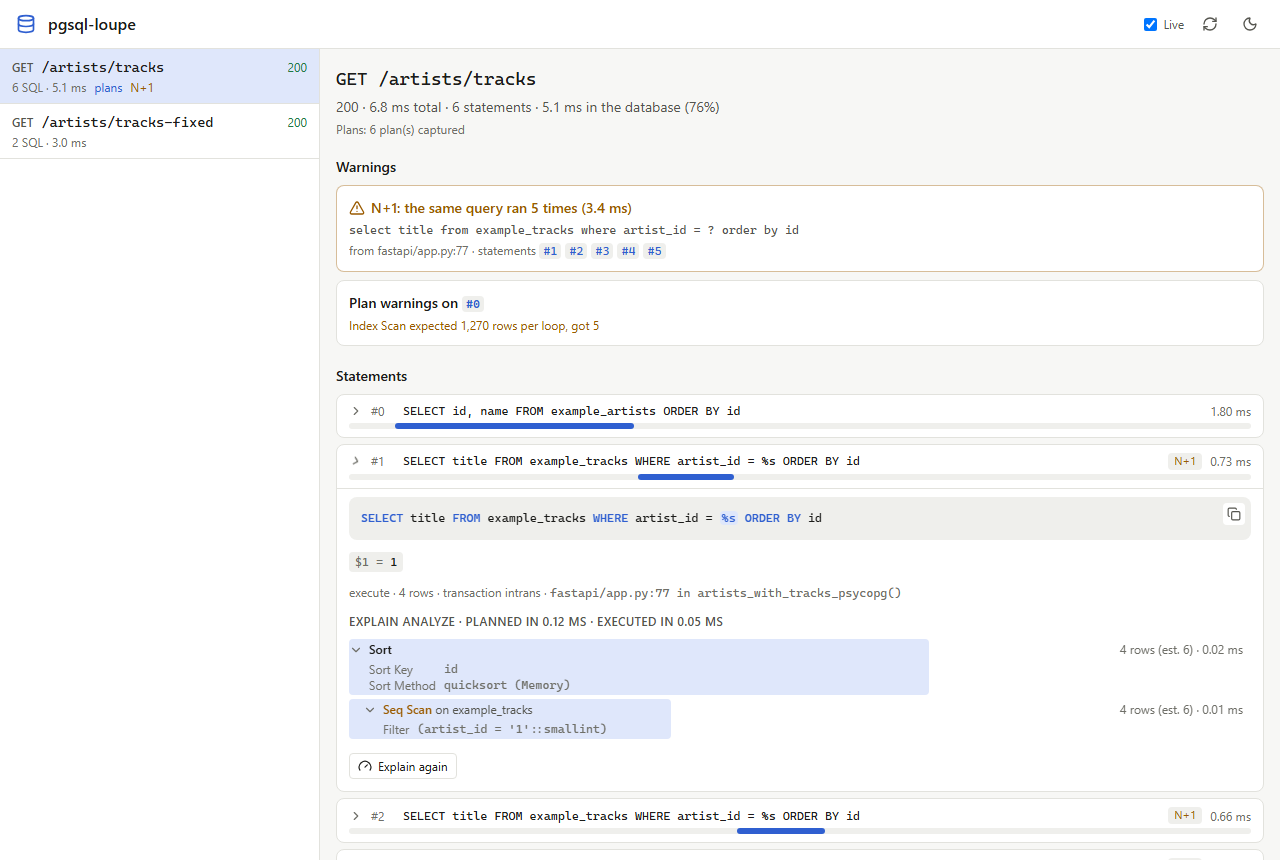
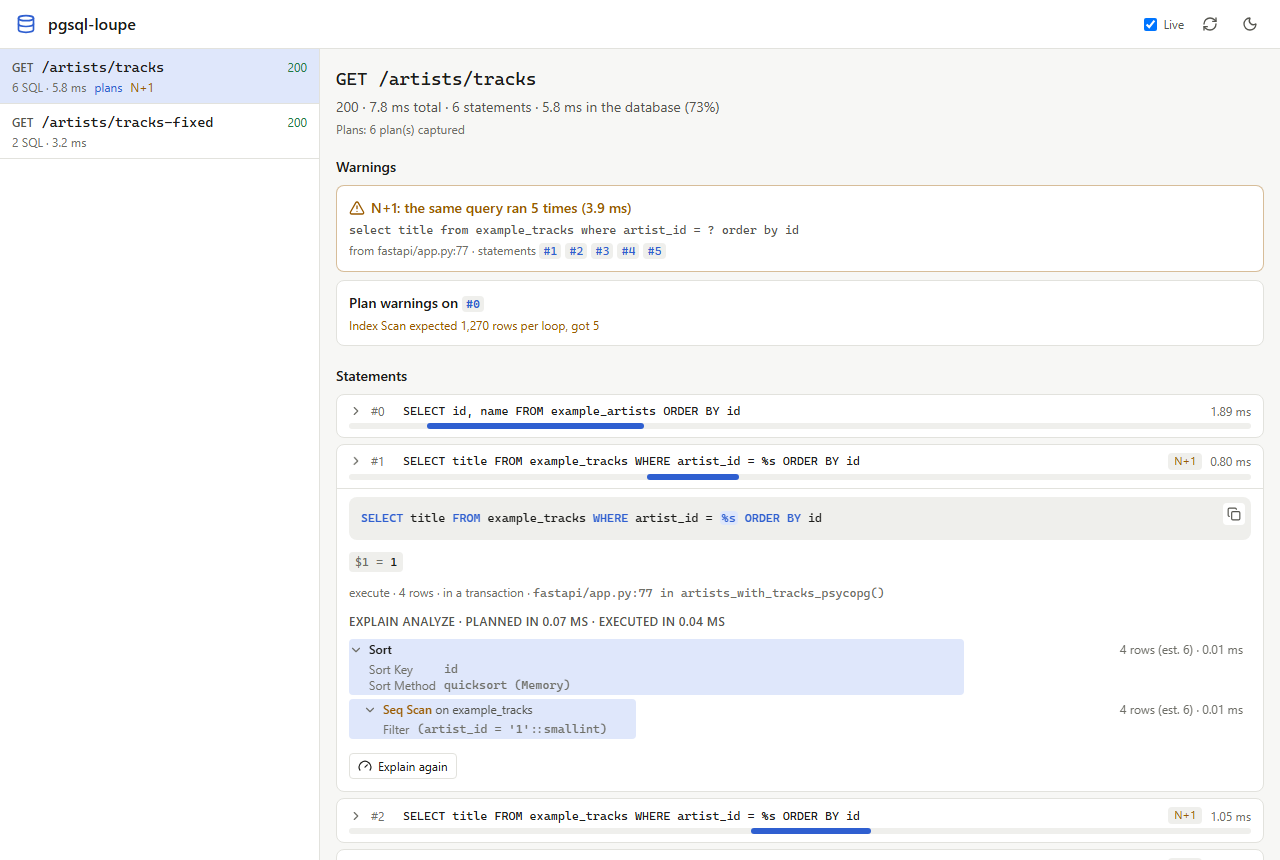
Redesign the docs site: minimal theme, home page, smooth navigation

diff --git a/docs/stylesheets/extra.css b/docs/stylesheets/extra.css
@@ -1,0 +1,197 @@
+/* A quiet theme: the panel's colours, system fonts, hairlines instead of shadows. */
+
+:root {
+  --md-text-font-family: system-ui, -apple-system, "Segoe UI", Roboto, "Helvetica Neue", sans-serif;
+  --md-code-font-family: ui-monospace, "Cascadia Code", "SF Mono", Consolas, monospace;
+  --loupe-radius: 10px;
+  --loupe-ease: cubic-bezier(0.2, 0, 0, 1);
+}
+
+[data-md-color-scheme="default"] {
+  --md-primary-fg-color: #ffffff;
+  --md-primary-fg-color--light: #ffffff;
+  --md-primary-fg-color--dark: #f7f7f5;
+  --md-primary-bg-color: #1c1c1a;
+  --md-primary-bg-color--light: #55554f;
+  --md-accent-fg-color: #2f5fd0;
+  --md-accent-fg-color--transparent: rgba(47, 95, 208, 0.08);
+  --md-typeset-a-color: #2f5fd0;
+  --md-default-fg-color: #1c1c1a;
+  --md-default-fg-color--light: #55554f;
+  --md-default-fg-color--lighter: #8a8a83;
+  --md-default-fg-color--lightest: #e6e6e1;
+  --md-code-bg-color: #f4f4f1;
+  --loupe-line: #e6e6e1;
+  --loupe-card: #ffffff;
+}
+
+[data-md-color-scheme="slate"] {
+  --md-hue: 60;
+  --md-primary-fg-color: #141413;
+  --md-primary-fg-color--light: #141413;
+  --md-primary-fg-color--dark: #141413;
+  --md-primary-bg-color: #ecece8;
+  --md-primary-bg-color--light: #b5b5ad;
+  --md-accent-fg-color: #8fb0ff;
+  --md-accent-fg-color--transparent: rgba(143, 176, 255, 0.1);
+  --md-typeset-a-color: #8fb0ff;
+  --md-default-bg-color: #141413;
+  --md-default-fg-color: #ecece8;
+  --md-default-fg-color--light: #b5b5ad;
+  --md-default-fg-color--lighter: #8a8a83;
+  --md-default-fg-color--lightest: #2c2c29;
+  --md-code-bg-color: #1d1d1b;
+  --md-footer-bg-color: #141413;
+  --md-footer-bg-color--dark: #101010;
+  --loupe-line: #2c2c29;
+  --loupe-card: #1a1a18;
+}
+
+html {
+  scroll-behavior: smooth;
+}
+
+/* Header: flat, a hairline instead of a coloured bar and shadow. */
+.md-header,
+.md-header--shadow {
+  box-shadow: none;
+  border-bottom: 1px solid var(--loupe-line);
+}
+.md-header__title {
+  font-weight: 600;
+}
+.md-search__form {
+  border-radius: 8px;
+  background-color: var(--md-code-bg-color);
+}
+
+/* Footer: the same quiet surface as the page. */
+.md-footer {
+  border-top: 1px solid var(--loupe-line);
+}
+.md-footer,
+.md-footer-meta {
+  background-color: var(--md-default-bg-color);
+  color: var(--md-default-fg-color--light);
+}
+.md-footer__link,
+.md-footer-meta a,
+.md-social__link svg {
+  color: var(--md-default-fg-color--light);
+  fill: currentColor;
+}
+
+/* Text. */
+.md-typeset {
+  font-size: 0.8rem;
+  line-height: 1.7;
+}
+.md-typeset h1 {
+  font-weight: 700;
+  letter-spacing: -0.02em;
+  color: var(--md-default-fg-color);
+}
+.md-typeset h2 {
+  font-weight: 650;
+  letter-spacing: -0.01em;
+}
+.md-typeset a {
+  text-underline-offset: 0.2em;
+  transition: color 150ms var(--loupe-ease);
+}
+
+/* Code, tables, images: rounded and bordered, no shadows. */
+.md-typeset pre > code,
+.md-typeset .highlight,
+.md-typeset .tabbed-set {
+  border-radius: var(--loupe-radius);
+}
+.md-typeset table:not([class]) {
+  border: 1px solid var(--loupe-line);
+  border-radius: var(--loupe-radius);
+  box-shadow: none;
+  font-size: 0.75rem;
+}
+.md-typeset img {
+  border-radius: var(--loupe-radius);
+  border: 1px solid var(--loupe-line);
+}
+
+/* Navigation: the current page is bold, nothing more. */
+.md-nav__link--active {
+  font-weight: 600;
+}
+
+/* Home page. */
+.loupe-hero {
+  text-align: center;
+  margin: 1.5rem auto 2rem;
+  max-width: 38rem;
+}
+.loupe-hero h1 {
+  font-size: 2.4rem;
+  margin-bottom: 0.4rem;
+}
+.loupe-hero p {
+  font-size: 0.95rem;
+  color: var(--md-default-fg-color--light);
+}
+/* Buttons: Material colours them with the header colour, which is white here. */
+.md-typeset .md-button {
+  border: 1px solid var(--loupe-line);
+  border-radius: 999px;
+  color: var(--md-default-fg-color);
+  background: transparent;
+  margin: 0.3rem;
+  padding: 0.55em 1.6em;
+  transition: transform 150ms var(--loupe-ease), border-color 150ms var(--loupe-ease),
+    background-color 150ms var(--loupe-ease);
+}
+.md-typeset .md-button:hover,
+.md-typeset .md-button:focus {
+  border-color: var(--md-accent-fg-color);
+  background: transparent;
+  color: var(--md-default-fg-color);
+  transform: translateY(-1px);
+}
+.md-typeset .md-button--primary,
+.md-typeset .md-button--primary:hover,
+.md-typeset .md-button--primary:focus {
+  border-color: var(--md-accent-fg-color);
+  background: var(--md-accent-fg-color);
+  color: var(--md-default-bg-color);
+}
+.md-header__button.md-logo img {
+  border-radius: 6px;
+  border: none;
+}
+.loupe-shot img {
+  display: block;
+  margin: 0 auto 2.5rem;
+}
+.md-typeset .grid.cards > ul > li {
+  border: 1px solid var(--loupe-line);
+  border-radius: var(--loupe-radius);
+  background: var(--loupe-card);
+  transition: border-color 200ms var(--loupe-ease), transform 200ms var(--loupe-ease);
+}
+.md-typeset .grid.cards > ul > li:hover {
+  border-color: var(--md-accent-fg-color);
+  box-shadow: none;
+  transform: translateY(-2px);
+}
+.md-typeset .grid.cards .twemoji svg {
+  color: var(--md-accent-fg-color);
+}
+
+@media (prefers-reduced-motion: reduce) {
+  html {
+    scroll-behavior: auto;
+  }
+  *,
+  *::before,
+  *::after {
+    transition: none !important;
+    animation: none !important;
+  }
+}

diff --git a/docs/index.md b/docs/index.md
@@ -1,31 +1,72 @@
+---
+hide:
+  - navigation
+  - toc
+---
+
+<div class="loupe-hero" markdown>
+
 # pgsql-loupe
 
-A debug panel for Python web apps on PostgreSQL. Open any page with `?lens=1` and see what it
-did to the database: every statement, its parameters, how long it took, the line of your code
-that ran it, `EXPLAIN ANALYZE` plans, the triggers that fired, and a warning when the same
-query ran once per row.
+See what every request did to your PostgreSQL database: each statement, its parameters and
+timing, the line of code that ran it, `EXPLAIN ANALYZE` plans, fired triggers and N+1 warnings.
 
-![The panel showing an N+1 warning and a query plan](images/panel.png)
+[Get started](quickstart.md){ .md-button .md-button--primary }
+[GitHub](https://github.com/ManvGit17/pgsql-loupe){ .md-button }
 
-## What it does
+</div>
 
-- **Records** every statement a request runs, through psycopg 3, SQLAlchemy 2 (sync and async)
-  or asyncpg, without changing your queries.
-- **Explains** them on request: analysed plans for reads, non-executed plans for writes, with
-  fired triggers and warnings for big sequential scans, bad row estimates and spills to disk.
-- **Warns** about N+1 patterns, duplicate queries and slow statements.
-- **Shows** it all in a panel at `/__lens/` that ships inside the package (no Node needed).
-- **Tests** it: a pytest fixture with `assert_max_queries`, `assert_no_nplus1` and
-  `assert_no_seq_scan`.
+<div class="loupe-shot" markdown>
 
-## Safe by default
+![The panel showing an N+1 warning and a query plan](images/panel.png#only-light)
+![The panel showing an N+1 warning and a query plan](images/panel-dark.png#only-dark)
 
-Off unless `PGSQL_LOUPE_ENABLED=1`, refuses to start when the environment says production,
-answers only requests from this machine, and redacts parameters that look secret. Plan capture
-never touches your connection and never runs a write unless you ask. See the
-[safety model](safety.md).
+</div>
 
-## Next
+<div class="grid cards" markdown>
 
-- [Quick start](quickstart.md) for psycopg, SQLAlchemy or asyncpg.
-- [How it compares](prior-art.md) with existing tools.
+-   :material-database-search: **Every statement**
+
+    psycopg 3, SQLAlchemy 2 (sync and async) and asyncpg, recorded without changing your
+    queries, each with the line of your code that ran it.
+
+-   :material-sitemap: **Plans and triggers**
+
+    `EXPLAIN ANALYZE` for reads, non-executed plans for writes, fired triggers, and warnings
+    for big scans, bad estimates and spills. [How it stays safe](plans.md)
+
+-   :material-repeat: **N+1 and duplicates**
+
+    The same query shape run once per row is flagged with the code that ran it, along with
+    exact duplicates and slow statements.
+
+-   :material-monitor-dashboard: **A panel in the package**
+
+    Open `/__lens/` in your app. It works offline, needs no Node, and ships inside the
+    Python package.
+
+-   :material-test-tube: **Query budgets in tests**
+
+    A pytest fixture: `assert_max_queries`, `assert_no_nplus1`, `assert_no_seq_scan`.
+    [In tests](testing.md)
+
+-   :material-shield-check: **Safe by default**
+
+    Off unless enabled, refuses production, local requests only, secrets redacted.
+    [Safety model](safety.md)
+
+</div>
+
+## Two lines to add
+
+```python
+pool = ConnectionPool(dsn, configure=instrument)          # 1. record statements
+install(app, LoupeConfig(explain=ExplainOptions(dsn=dsn)))  # 2. add the panel
+```
+
+Then run with `PGSQL_LOUPE_ENABLED=1`, open any page with `?lens=plan`, and go to `/__lens/`.
+The [quick start](quickstart.md) covers all three drivers.
+
+```bash
+pip install "pgsql-loupe[psycopg]"
+```
